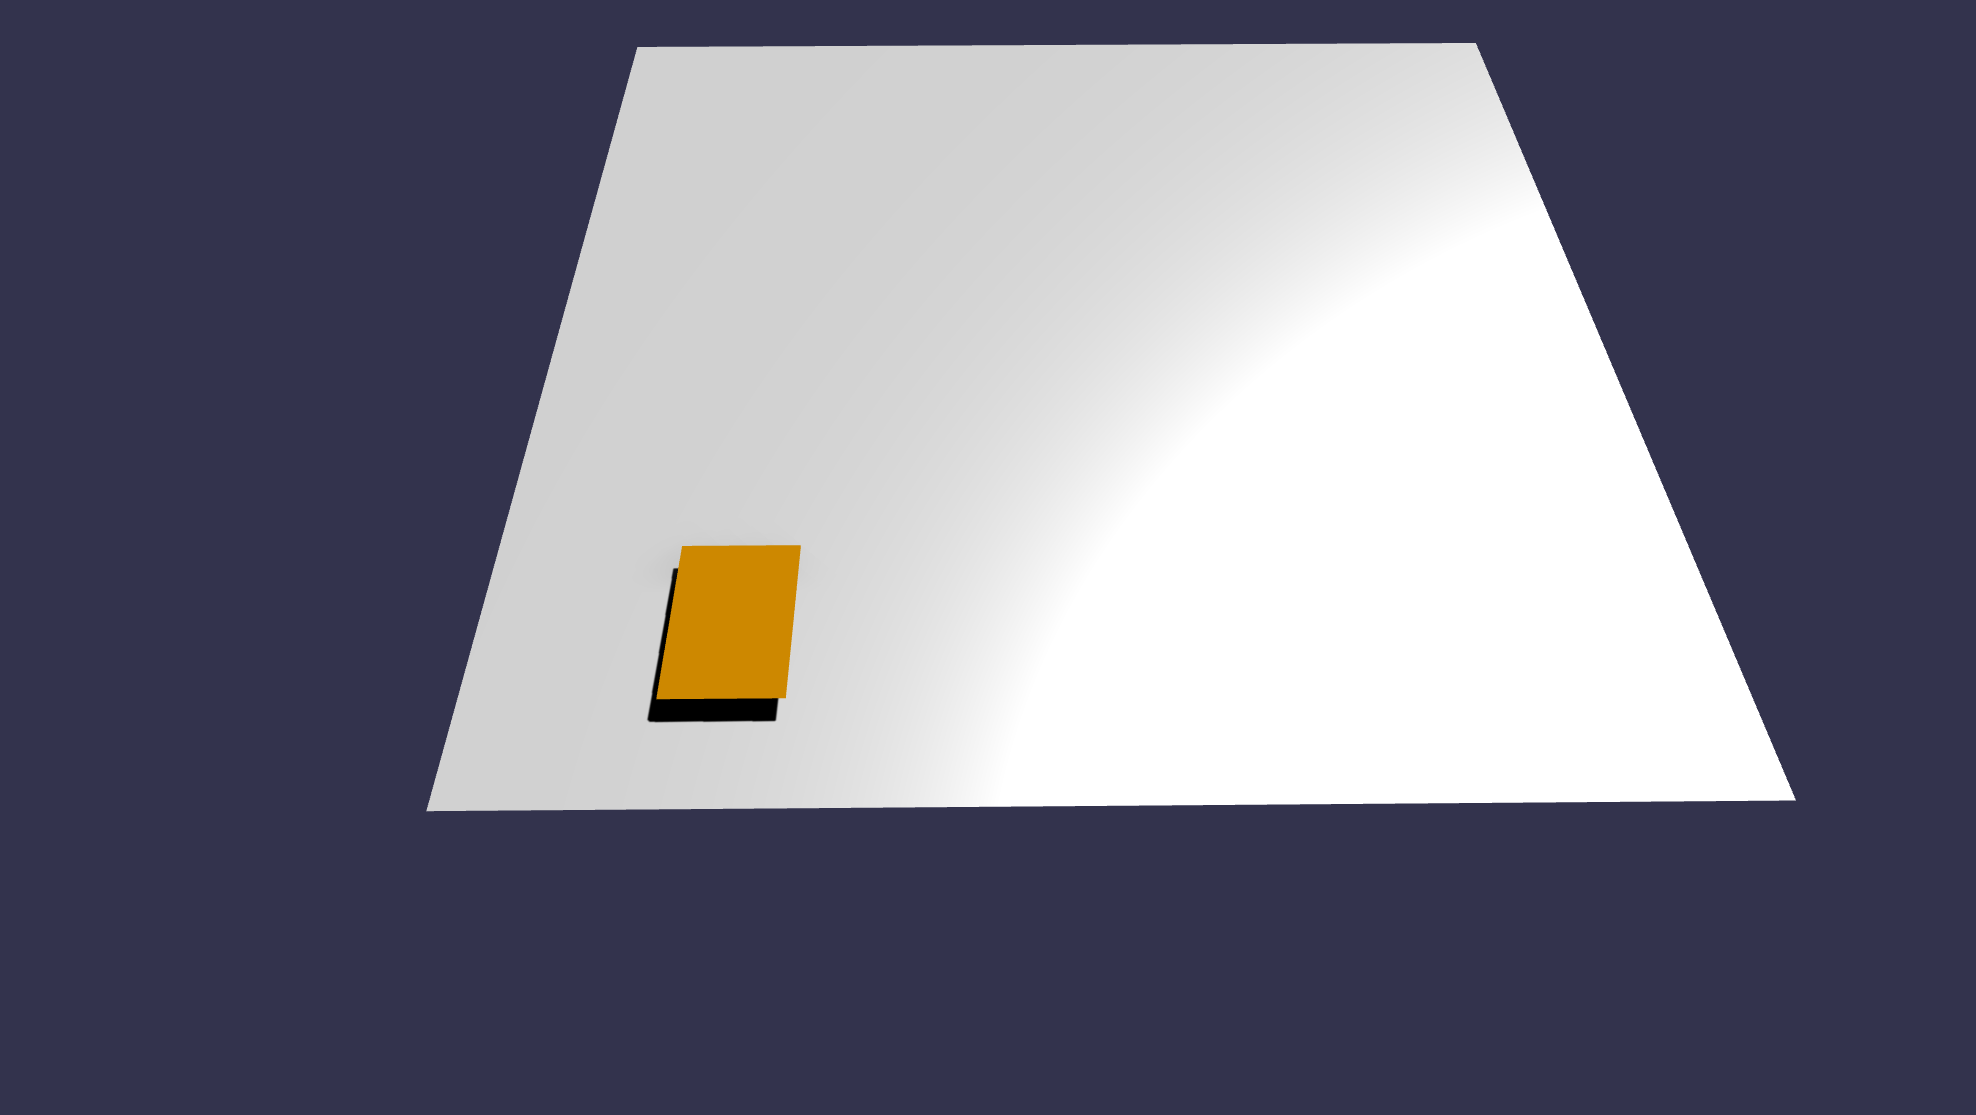
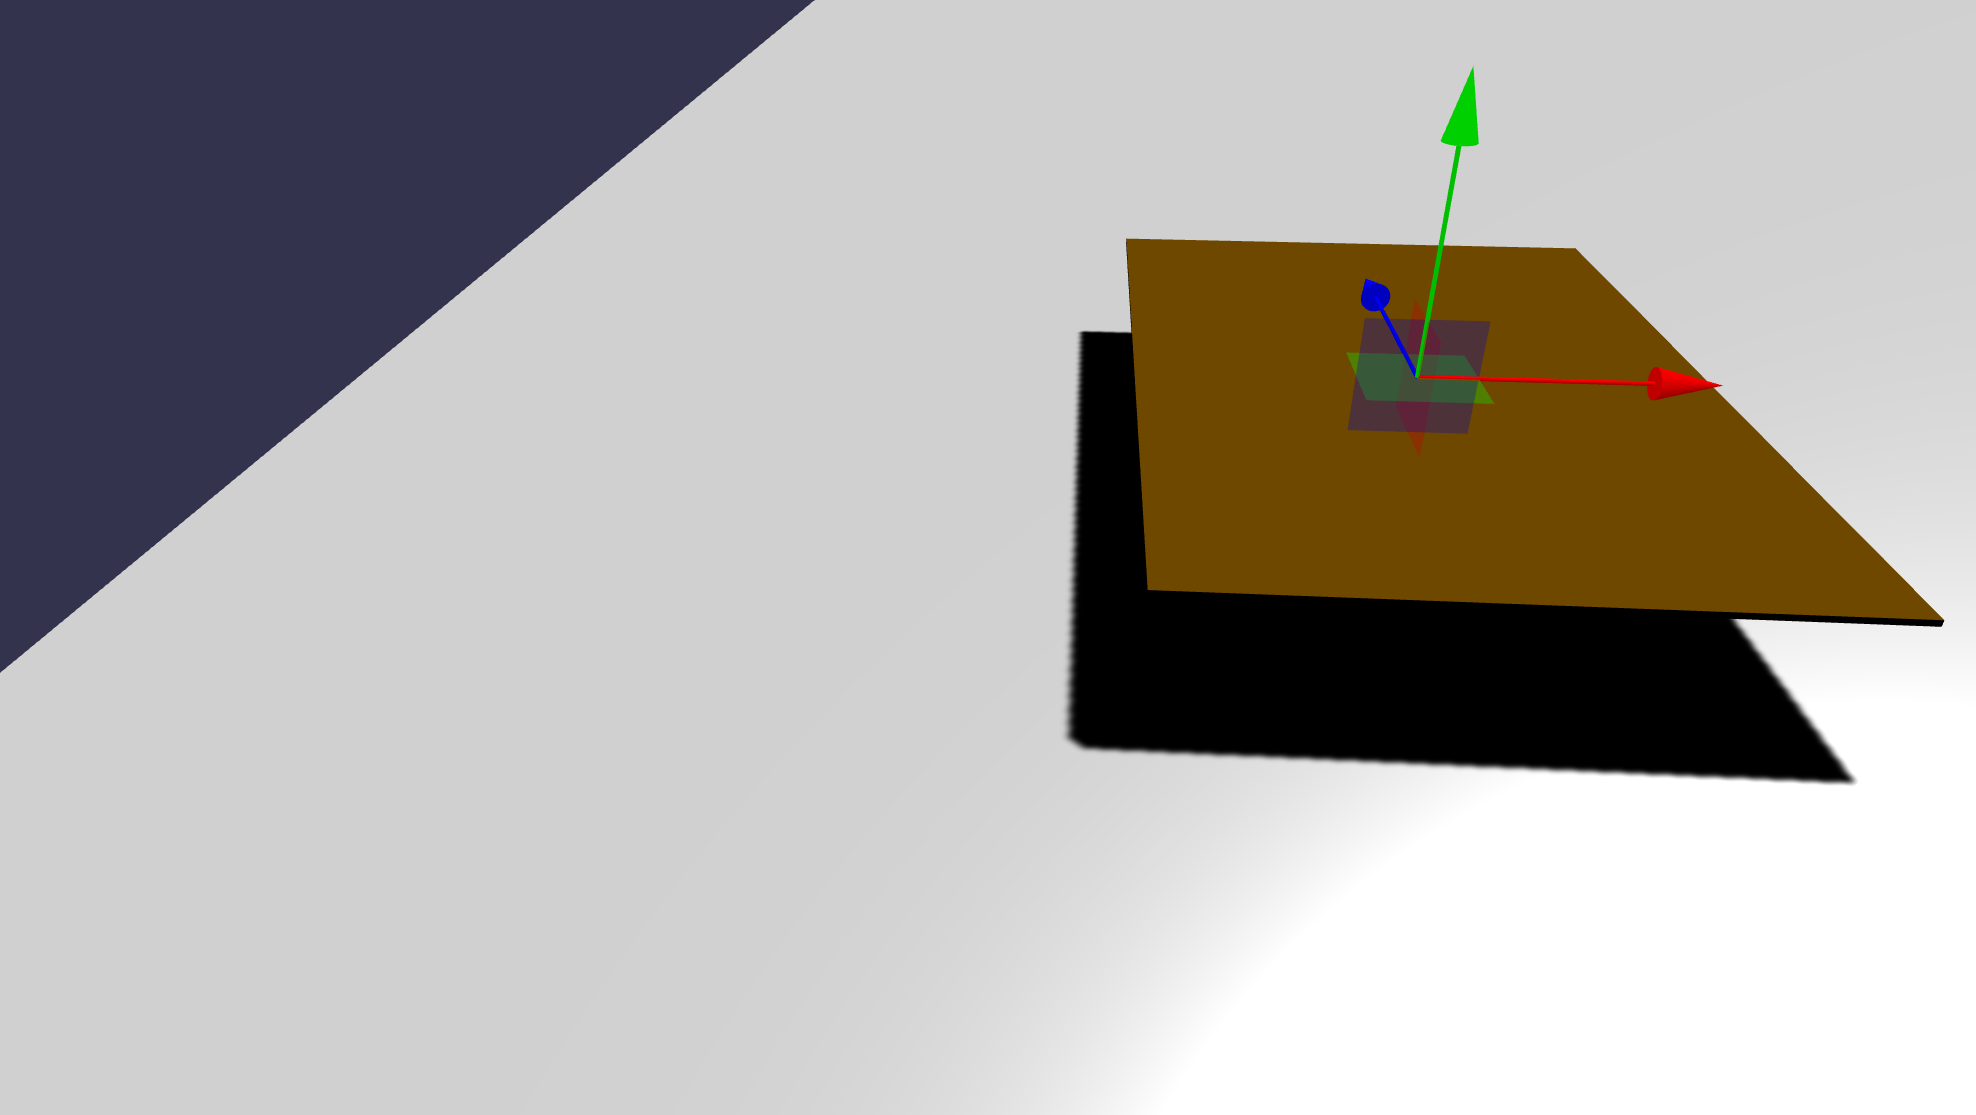
better amterial for cards and applying scripts on cloning objects

diff --git a/front/src/babylon-editor/src/scripts/cloneWithScripts.ts b/front/src/babylon-editor/src/scripts/cloneWithScripts.ts
@@ -1,0 +1,29 @@
+import type { Mesh } from "@babylonjs/core/Meshes/mesh";
+import { scriptsDictionary, applyScriptOnObject } from "babylonjs-editor-tools";
+
+/**
+ * Clone a mesh and re-attach all of its editor scripts with their configured values.
+ * Babylon's native clone() copies geometry/material/transforms but not editor scripts.
+ */
+export function cloneMeshWithScripts(source: Mesh, name: string): Mesh | null {
+    const clone = source.clone(name);
+    if (!clone) return null;
+
+    const registered = scriptsDictionary.get(source);
+    if (!registered?.length) return clone;
+
+    for (const { instance: src } of registered) {
+        const ctor = src.constructor as new (...args: any[]) => any;
+        const dest = applyScriptOnObject(clone, ctor);
+
+        // Copy editor-configured property values (tracked by @visibleAs* decorators)
+        const inspectorProps: { propertyKey: string | symbol }[] =
+            (ctor as any)._VisibleInInspector ?? [];
+        for (const { propertyKey } of inspectorProps) {
+            const key = propertyKey.toString();
+            (dest as any)[key] = (src as any)[key];
+        }
+    }
+
+    return clone;
+}

diff --git a/front/src/babylon-editor/src/scripts/CardsInitializer.ts b/front/src/babylon-editor/src/scripts/CardsInitializer.ts
@@ -2,6 +2,7 @@ import { Scene } from "@babylonjs/core/scene";
 import type { Mesh } from "@babylonjs/core/Meshes/mesh";
 import type { IScript } from "babylonjs-editor-tools";
 import GameNetworkManagerComponent from "./GameNetworkManagerComponent";
+import { cloneMeshWithScripts } from "./cloneWithScripts";
 
 const BLUEPRINT_NAME = "UpsideDownCard_BP";
 const CARD_STACK_Y_OFFSET = 1.5;
@@ -35,7 +36,7 @@ export default class CardsInitializer implements IScript {
             throw new Error(`CardsInitializer: blueprint mesh "${BLUEPRINT_NAME}" not found`);
         }
         for (let i = 0; i < total_cards; i++) {
-            const clone = blueprint.clone(`deck_card_${total_cards}`);
+            const clone = cloneMeshWithScripts(blueprint, `deck_card_${i}`);
             if (!clone) continue;
             clone.position = blueprint.position.clone();
             clone.position.y += i * CARD_STACK_Y_OFFSET;

diff --git a/front/src/babylon-editor/src/scripts.ts b/front/src/babylon-editor/src/scripts.ts
@@ -5,14 +5,14 @@
 
 import { loadScene, scriptsDictionary, scriptAssetsCache, _applyScriptsForObject, _removeRegisteredScriptInstance, _preloadScriptsAssets } from "babylonjs-editor-tools";
 import * as scripts_GameNetworkManagerComponent from "./scripts/GameNetworkManagerComponent";
-import * as scripts_CardsInitializer from "./scripts/CardsInitializer";
 import * as scripts_HoverAnimation from "./scripts/HoverAnimation";
+import * as scripts_CardsInitializer from "./scripts/CardsInitializer";
 import * as scripts_box from "./scripts/box";
 
 export const scriptsMap = {
     "scripts/GameNetworkManagerComponent.ts": scripts_GameNetworkManagerComponent,
-	"scripts/CardsInitializer.ts": scripts_CardsInitializer,
 	"scripts/HoverAnimation.ts": scripts_HoverAnimation,
+	"scripts/CardsInitializer.ts": scripts_CardsInitializer,
 	"scripts/box.ts": scripts_box
 };
 
